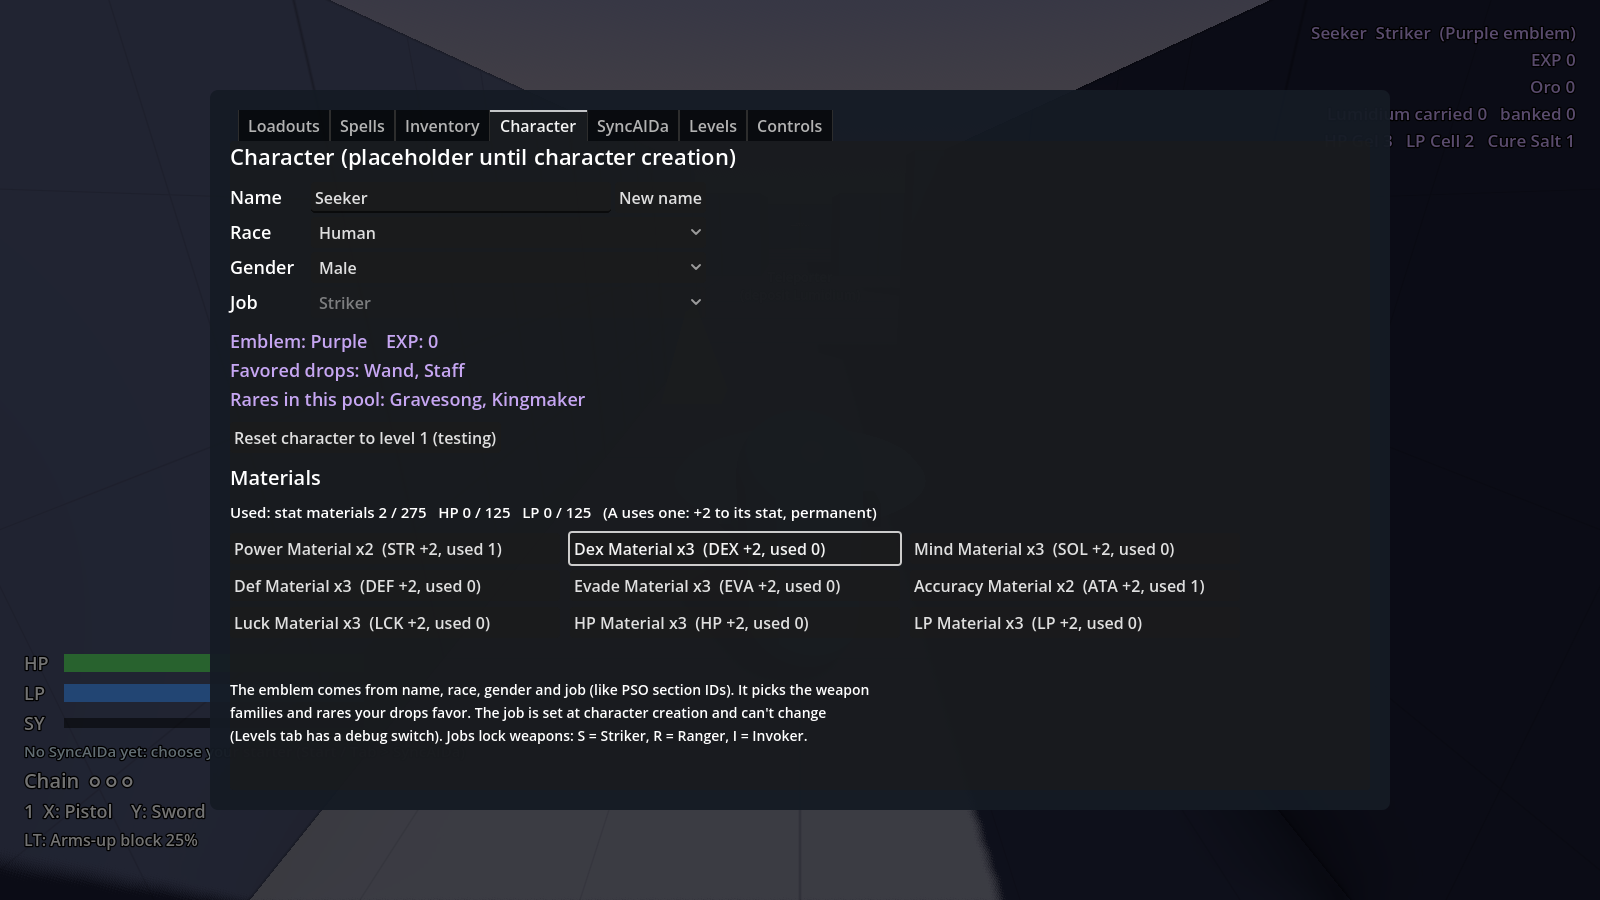
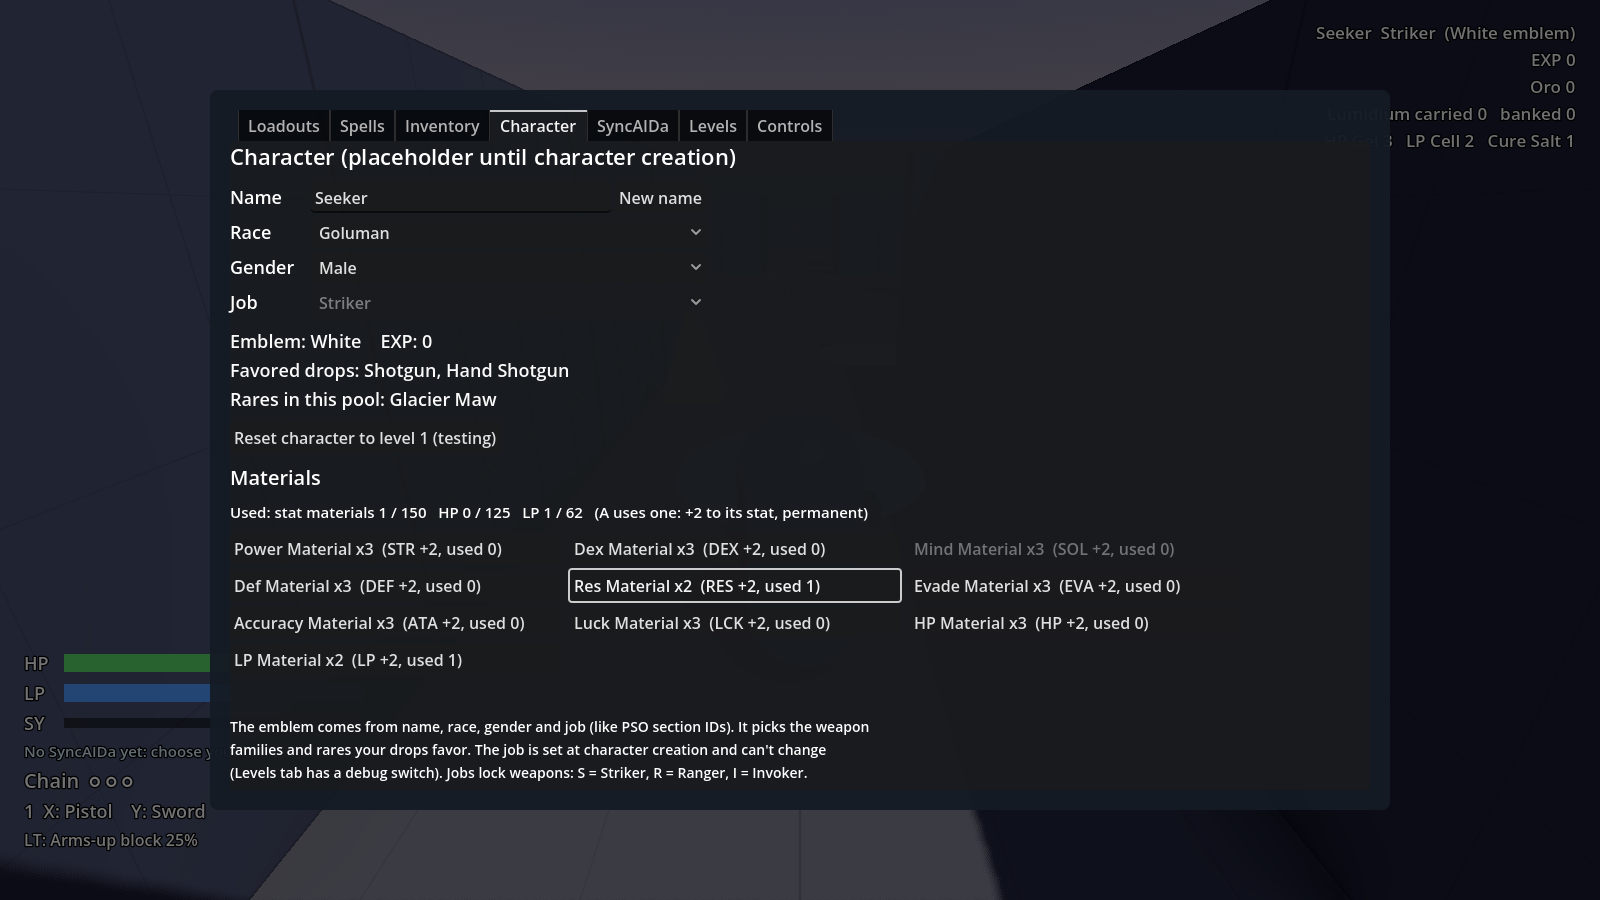
Res Material; Goluman: 150 stat limit, LP Materials up to 62
Claude-Session: https://claude.ai/code/session_0158GMUbAThobuu7yWuNoptn

diff --git a/README.md b/README.md
@@ -126,9 +126,9 @@ Two scenes: `scenes/main.tscn` is the test room (F5), and `scenes/arena.tscn` ha
 - **Goluman** can't cast. They set **traps** instead (Damage, Slow, Shock, Poison, Confuse, Freeze, Paralyze) from the same slots, learned with DEX. Up to 4 at once; they arm after 0.6 s and spring on the first enemy. Trap discs only drop for Goluman.
 - **Level hazards.** Six hidden traps sit in the arena. Only Goluman can see them; anyone else finds out by stepping on one (each springs once).
 - **Paralyze** is a new status: 2.5 s, no moving or acting.
-- **Materials (PSO).** Each use permanently raises one stat by 2: Power (STR), Dex (DEX, new), Mind (SOL), Def (DEF), Evade (EVA), Accuracy (ATA, new), Luck (LCK), HP and LP (PSO's TP Material). Use them in the **Character** tab.
-  - PSO's limits: the seven stat materials share one limit, **275 for Humans and 175 for everyone else** (PSO's 250 / 150, +25 for the two new materials). HP and LP have their own 125 each.
-  - Goluman, like PSO's androids, can't use Mind or LP Materials.
+- **Materials (PSO).** Each use permanently raises one stat by 2: Power (STR), Dex (DEX, new), Mind (SOL), Def (DEF), Res (RES, new), Evade (EVA), Accuracy (ATA, new), Luck (LCK), HP and LP (PSO's TP Material). Use them in the **Character** tab.
+  - PSO's limits: the eight stat materials share one limit: **Humans 275, Lumera and Coresian 175** (PSO's 250 / 150, +25 for the new materials), **Goluman 150**. HP and LP have their own 125 each.
+  - Goluman can't use Mind Materials (no magic), and can use only 62 LP Materials (half).
   - They drop from enemies (about 2.4% of kills). Levels tab: +10 of each. Reset character forgets the ones used.
   - Accuracy has no other source yet; character levels and gear will add to it.
 
@@ -236,4 +236,4 @@ The tests always use a fresh save and never write yours.
 
 - `magic_test.gd` (in the arena): the spell book (46 spells, 7 traps, grid names), PSO technique power and LP tables, SOL requirements, level caps by race and job, Goluman rules, casting from loadout slots (empty and unlearned slots), the damage formula, every damage shape reaching the enemies it should, holding a sustained spell, buffs scaled by support power, debuffs around you, auras, Heal, Cure 9 keeping buffs, Teleportal, trap placing, springing and the 4-trap limit, hazards visible only to Goluman, discs (learn, store, read later, sell), disc drop rates, and the Spells tab driven by a gamepad.
 
-- `materials_test.gd` (in the arena): the nine materials, the 275 / 175 shared limit and the separate HP / LP 125, Goluman restrictions, STR / DEX / ATA / max HP gains (and ATA improving hit chance), the limits refusing more, the save keeping materials used and re-applying them once, drops and pickups, using one from the Character tab with a gamepad, and Reset character forgetting them.
+- `materials_test.gd` (in the arena): the ten materials, the 275 / 175 / 150 shared limits and the separate HP / LP 125, Goluman restrictions (no Mind, 62 LP), STR / DEX / RES / ATA / max HP gains (and ATA improving hit chance), the limits refusing more, the save keeping materials used and re-applying them once, drops and pickups, using one from the Character tab with a gamepad, and Reset character forgetting them.
